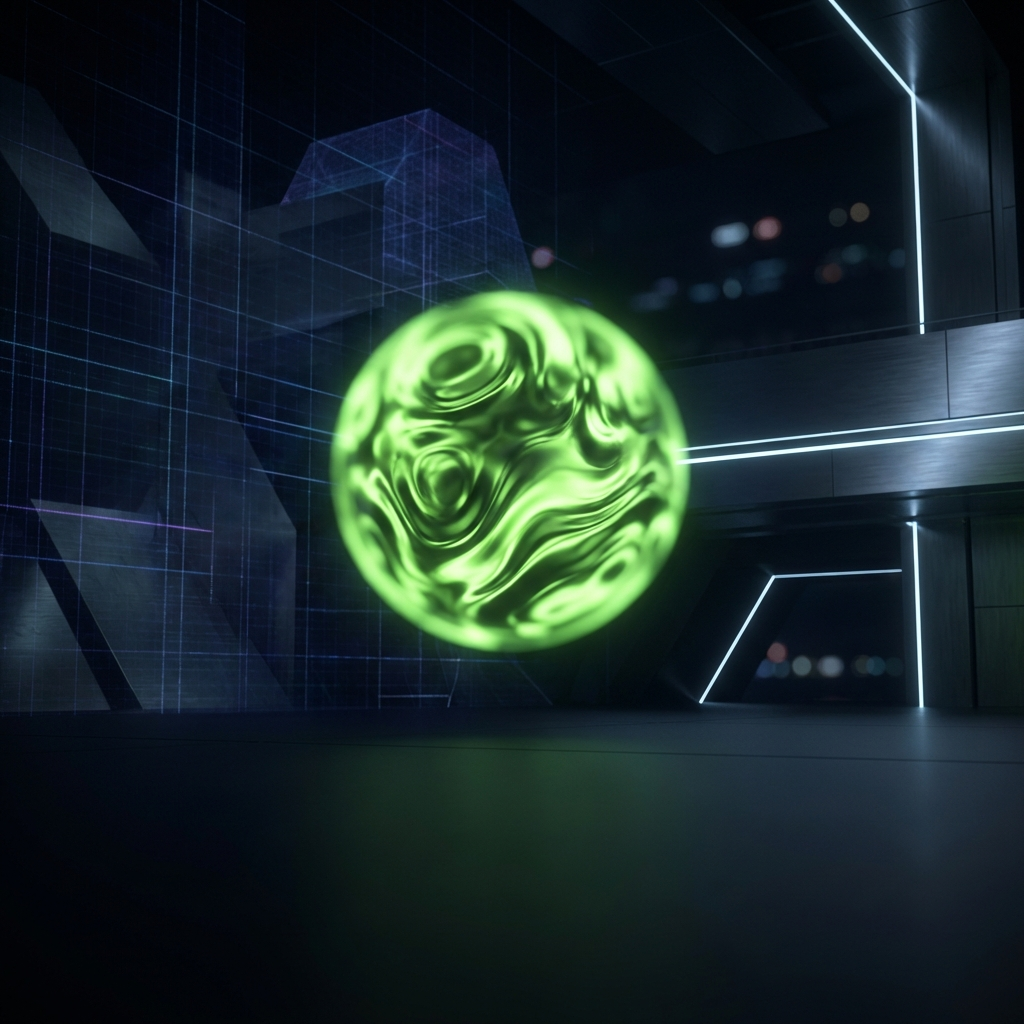
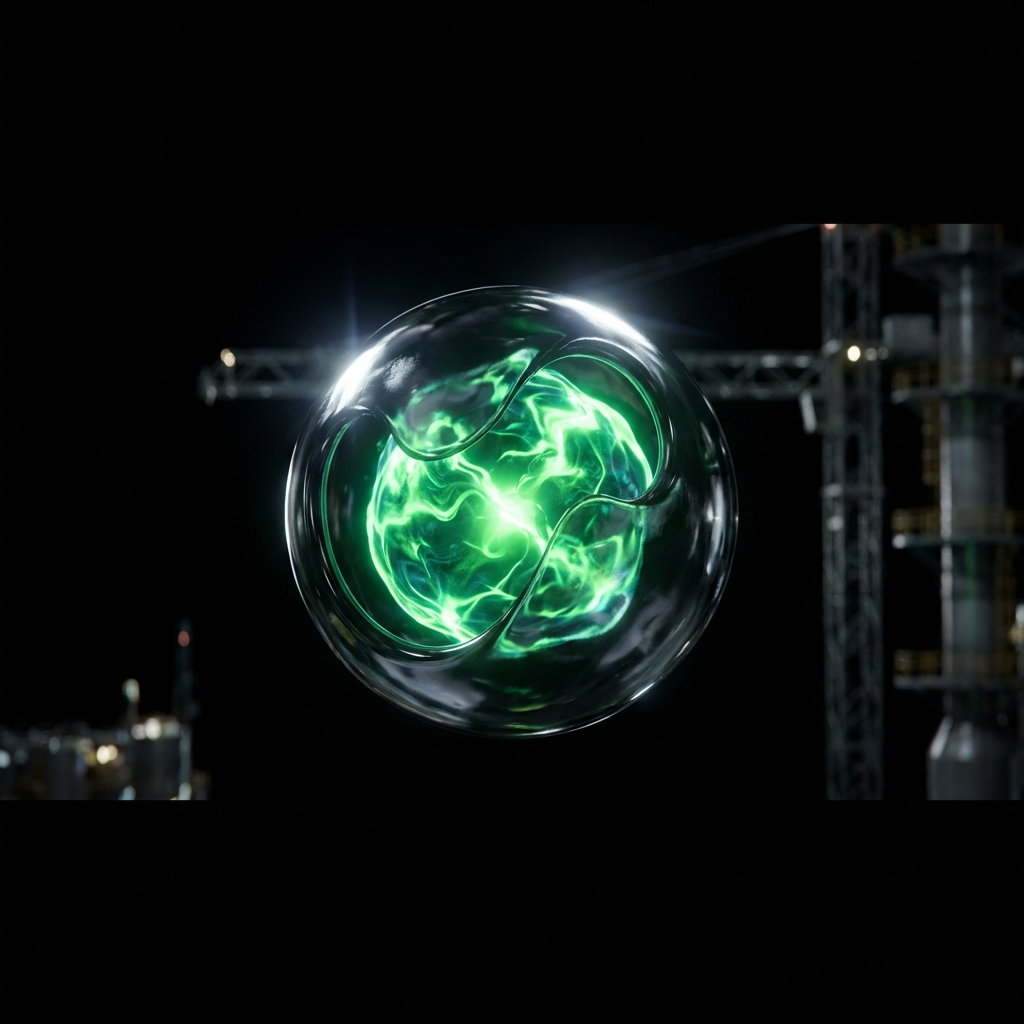
Finalized Hero background: Applied high-res widescreen v2 image for perfect desktop coverage

diff --git a/src/components/Hero.tsx b/src/components/Hero.tsx
@@ -138,7 +138,7 @@ const Hero: React.FC = () => {
             >
                 <div className="relative w-full h-full flex items-center justify-center overflow-hidden">
                     <motion.img
-                        src="/images/hero-centerpiece.png"
+                        src="/images/hero-bg-widescreen.png"
                         alt="WPFYE Core"
                         className="absolute inset-0 w-full h-full object-cover opacity-20 md:opacity-30 mix-blend-screen"
                         initial={{ scale: 1.1, opacity: 0 }}
